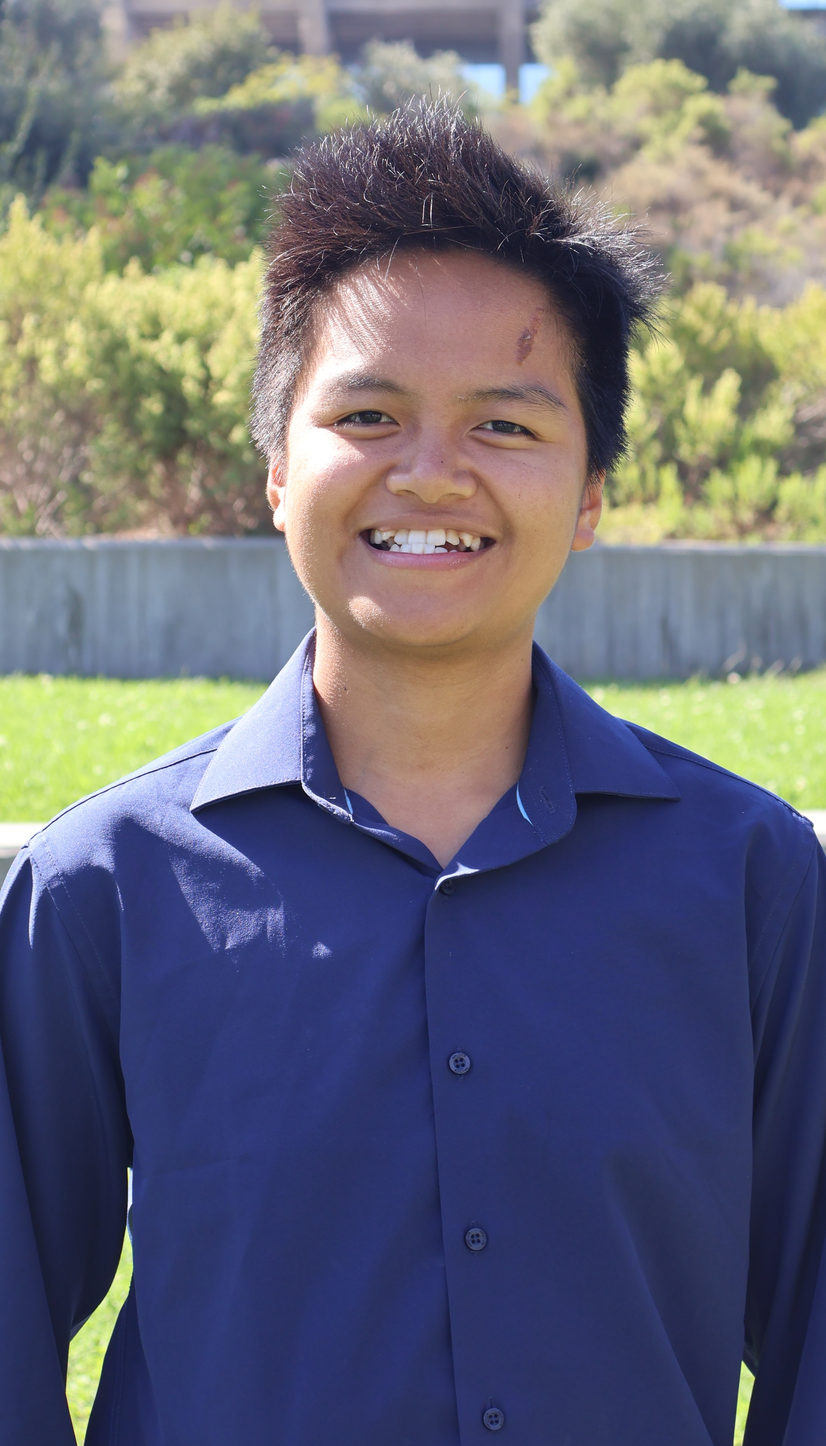
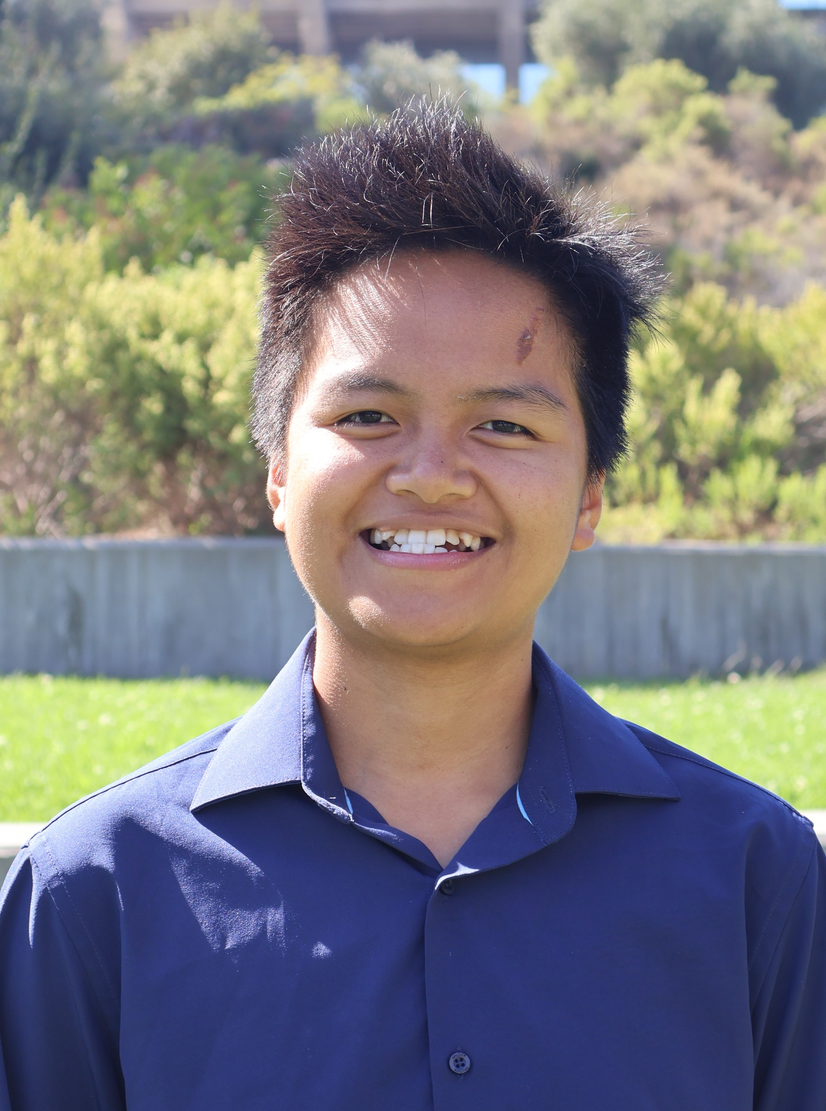
added headings to teams, and adjusted photos.

diff --git a/about.html b/about.html
@@ -172,6 +172,7 @@
         <div class="w-col w-col-4"></div>
       </div>
       <h1 class="heading-5">Current Members</h1>
+      <h1 class="heading-5">Business</h1>
       <div class="w-row">
         <div class="w-col w-col-4">
           <div class="div-block-2"><img src="images/oof.png" loading="lazy" alt="" class="image-11">
@@ -187,6 +188,7 @@
         </div>
       </div>
       
+      <h1 class="heading-5">Electrical</h1>
       <div class="w-row">
         <div class="w-col w-col-4">
           <div class="div-block-2"><img src="images/oof.png" loading="lazy" alt="" class="image-11">
@@ -196,6 +198,7 @@
         </div>
       </div>
       
+      <h1 class="heading-5">Mechanical</h1>
       <div class="w-row">
         <div class="w-col w-col-4">
           <div class="div-block-2"><img src="images/oof.png" loading="lazy" alt="" class="image-11">
@@ -253,6 +256,7 @@
         </div>
       </div>
       
+      <h1 class="heading-5">Electrical</h1>
       <div class="w-row">
         <div class="w-col w-col-4">
           <div class="div-block-2"><img src="images/oof.png" loading="lazy" alt="" class="image-11">
@@ -262,6 +266,7 @@
         </div>
       </div>
       
+      <h1 class="heading-5">Software</h1>
       <div class="w-row">
         <div class="w-col w-col-4">
           <div class="div-block-2"><img src="images/oof.png" loading="lazy" alt="" class="image-11">
